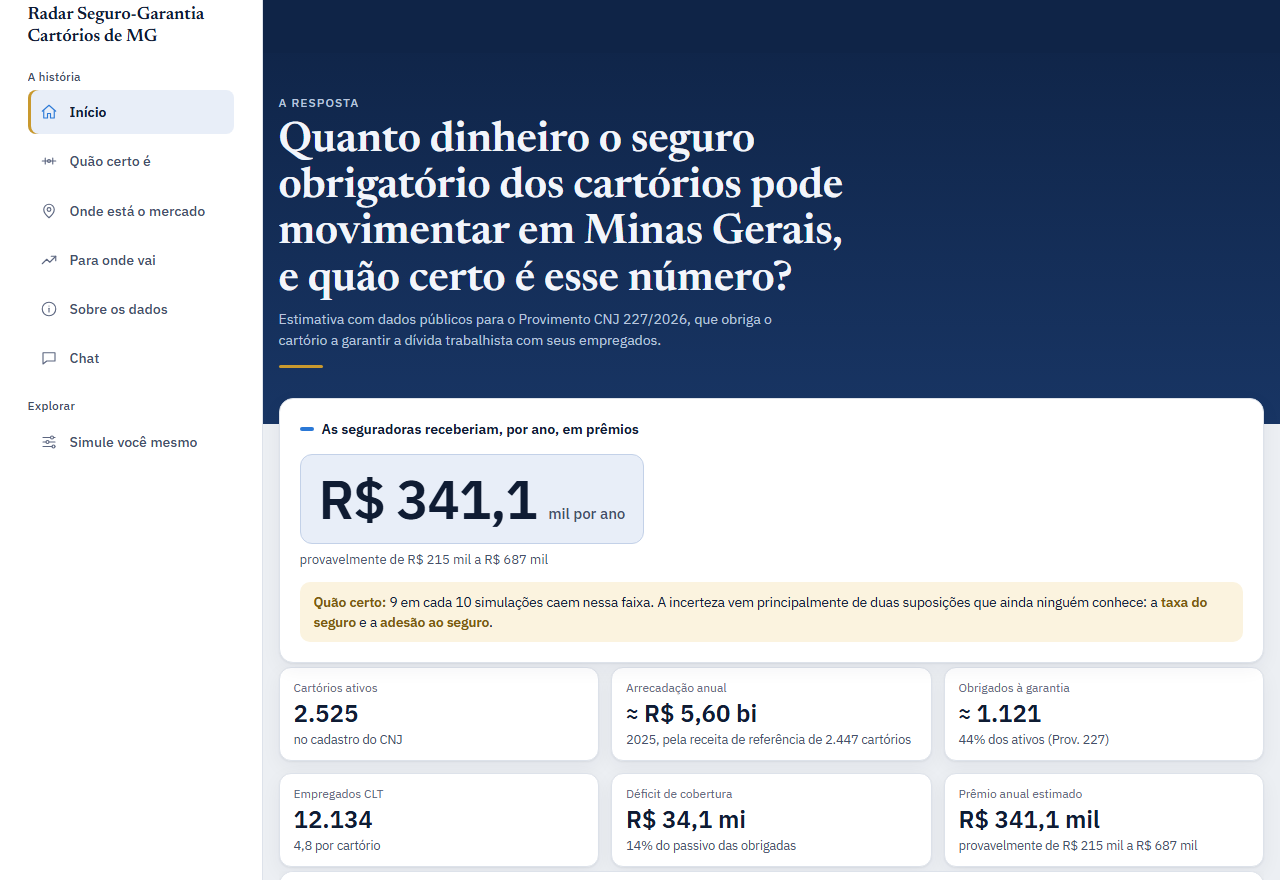
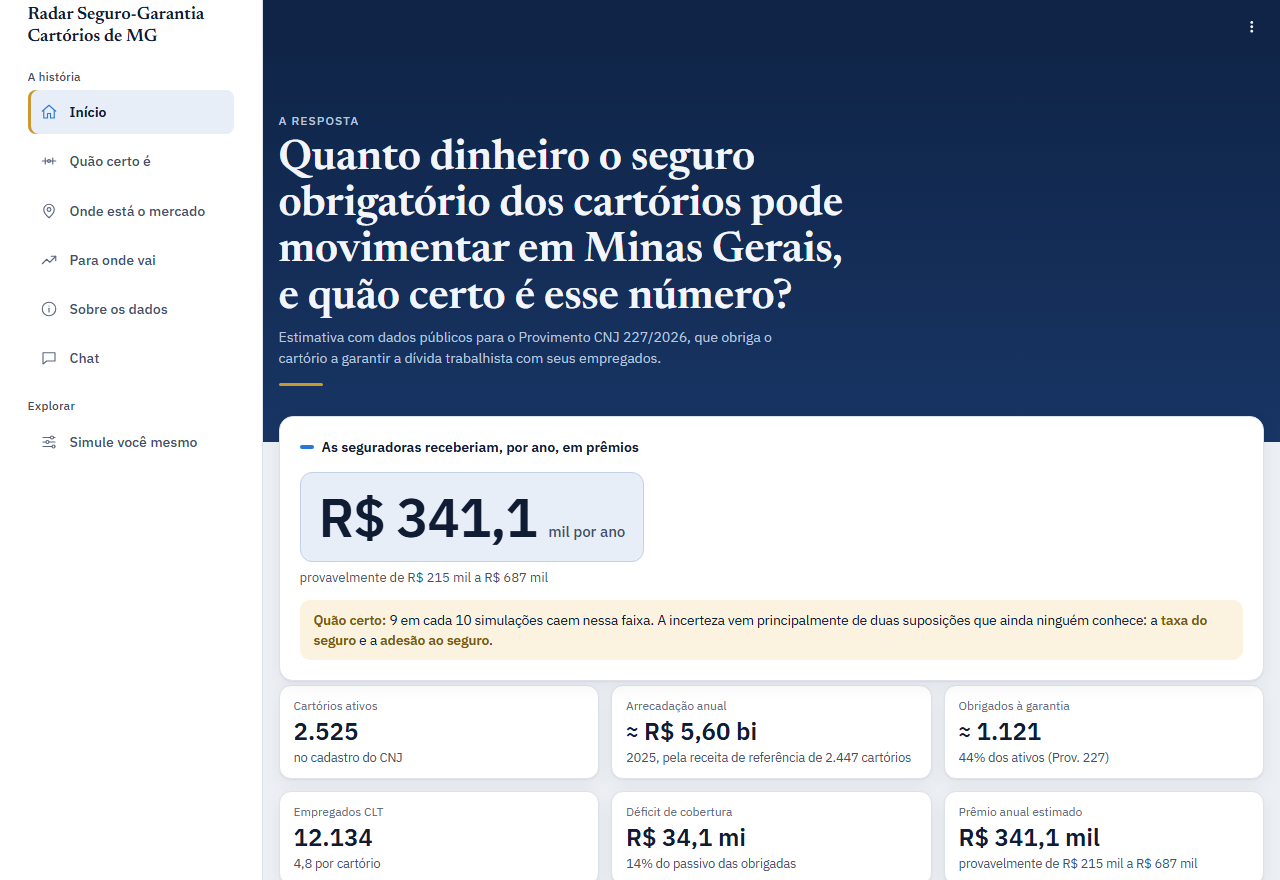
README: imagem do Início e GIF com as cores novas (D-084), gerados pelo scripts/gif_painel.py

Changed region(s): [[0.1875, 0.092, 1.0, 1.0]]

diff --git a/scripts/gif_painel.py b/scripts/gif_painel.py
@@ -3,9 +3,11 @@
 percurso. Precisa do Chromium do Playwright (`uv run playwright install chromium`).
 
 Percurso: Início (resposta e 6 indicadores) → Quão certo é (grade Taxa × adesão) → Onde está o mercado (mapa) →
-clique em Belo Horizonte (quadro dos cartórios) → mapa em % de obrigados → Para onde vai → Sobre os dados.
+clique em Belo Horizonte (quadro dos cartórios) → mapa em % de obrigados → Para onde vai → Sobre os dados → o mapa
+no tema escuro (D-084). Também grava a imagem do Início do README (docs/img/painel_inicio.png, 1280 × 880, tema claro).
 
 Uso: uv run python scripts/gif_painel.py [--saida docs/img/painel_tour.gif] [--largura 900]
+                                         [--imagem docs/img/painel_inicio.png]
 """
 import argparse
 import io
@@ -84,10 +86,16 @@ def _clicar_municipio(page, area_id: str) -> None:
     page.mouse.click(*ponto)
 
 
-def gravar(saida: Path, largura: int) -> int:
+def gravar(saida: Path, largura: int, imagem: Path | None = None) -> int:
     quadros = []
     with painel_demo() as url, sync_playwright() as p:
         nav = p.chromium.launch()
+        if imagem:   # imagem do Início do README, na resolução da tela
+            pag = nav.new_page(viewport={"width": 1280, "height": 880}, color_scheme="light")
+            _ir(pag, url + "/", "Prêmio anual estimado")
+            imagem.parent.mkdir(parents=True, exist_ok=True)
+            pag.screenshot(path=str(imagem))
+            pag.close()
         page = nav.new_page(viewport=VIEWPORT, color_scheme="light")
         _ir(page, url + "/", "Prêmio anual estimado")
         quadros.append(_quadro(page, largura))
@@ -116,6 +124,11 @@ def gravar(saida: Path, largura: int) -> int:
         quadros.append(_quadro(page, largura))
         _ir(page, url + "/Sobre_os_dados", "Os 10 números oficiais")
         quadros.append(_quadro(page, largura))
+        # o mapa no tema escuro: fundo neutro e cores de dado com 3:1 ou mais (D-084)
+        escuro = nav.new_page(viewport=VIEWPORT, color_scheme="dark")
+        _ir(escuro, url + "/Onde_está_o_mercado", "Os maiores déficits", ".rd-mapa svg")
+        escuro.wait_for_timeout(800)
+        quadros.append(_quadro(escuro, largura))
         nav.close()
     paleta = [q.quantize(colors=128, method=Image.Quantize.MEDIANCUT) for q in quadros]
     saida.parent.mkdir(parents=True, exist_ok=True)
@@ -129,7 +142,11 @@ if __name__ == "__main__":
     a = argparse.ArgumentParser()
     a.add_argument("--saida", default=str(RAIZ / "docs" / "img" / "painel_tour.gif"))
     a.add_argument("--largura", type=int, default=900)
+    a.add_argument("--imagem", default=str(RAIZ / "docs" / "img" / "painel_inicio.png"),
+                   help="imagem do Início do README ('' para não gravar)")
     x = a.parse_args()
-    n = gravar(Path(x.saida), x.largura)
+    n = gravar(Path(x.saida), x.largura, Path(x.imagem) if x.imagem else None)
+    if x.imagem:
+        print(f"{x.imagem}: {Path(x.imagem).stat().st_size / 1e3:.0f} kB")
     with Image.open(x.saida) as gif:   # quadros iguais em seguida viram um só no GIF: conta o que ficou
         print(f"{x.saida}: {n} telas capturadas, {gif.n_frames} quadros, {Path(x.saida).stat().st_size / 1e6:.2f} MB")

diff --git a/docs/diario.md b/docs/diario.md
@@ -1303,3 +1303,7 @@ Medida do "antes", usada na comparação final dos slides. O autor já fez a med
 - **Conferência:** suíte padrão 442 passed (26 do JavaScript); `-m navegador` 4 passed; capturas em 1280 px nos dois temas e em 375 px no escuro; troca de tema claro → escuro com mudança de página, com o sistema claro e escuro; 10 números sem mudança.
 - **Limitações encontradas:** o servidor local também não recarrega o `src/` sozinho (o componente de tema não apareceu até reiniciar), como no Cloud; os erros 404 do console são do próprio Streamlit (`/<página>/_stcore/health`).
 - **Próximo passo:** PR; depois do merge, Reboot no Cloud; depois, Fase 3, bloco 4.
+
+## 2026-11-10 (11) — Imagem do Início e GIF do README com as cores novas
+- **O que foi feito** (pedido do autor: "Sim, depois do merge"; PR #18 juntado em `070b6da`, CI verde; branch `readme-imagens-cores-novas`): `scripts/gif_painel.py` passou a gravar também a imagem do Início (`docs/img/painel_inicio.png`, 1280 × 880, tema claro; antes era uma captura avulsa) e a terminar o GIF com o mapa no tema escuro (D-084). Rodado no modo demonstração: 10 telas, 0,92 MB; imagem de 145 kB. Conferidos a imagem e os quadros do mapa claro e escuro. Descrição do GIF no README atualizada.
+- **Próximo passo:** Reboot no Cloud (o PR #18 mudou o `src/`); depois, Fase 3, bloco 4.

diff --git a/README.md b/README.md
@@ -10,7 +10,7 @@
 
 <details><summary>Tour pelas páginas (GIF)</summary>
 
-![Tour pelo painel publicado: Início, Quão certo é, Onde está o mercado, Para onde vai, Simule e Sobre os dados](docs/img/painel_tour.gif)
+![Tour pelo painel no modo demonstração: Início, Quão certo é, Onde está o mercado (mapa, Belo Horizonte e o mapa em %), Para onde vai, Sobre os dados e o mapa no tema escuro](docs/img/painel_tour.gif)
 
 </details>
 
